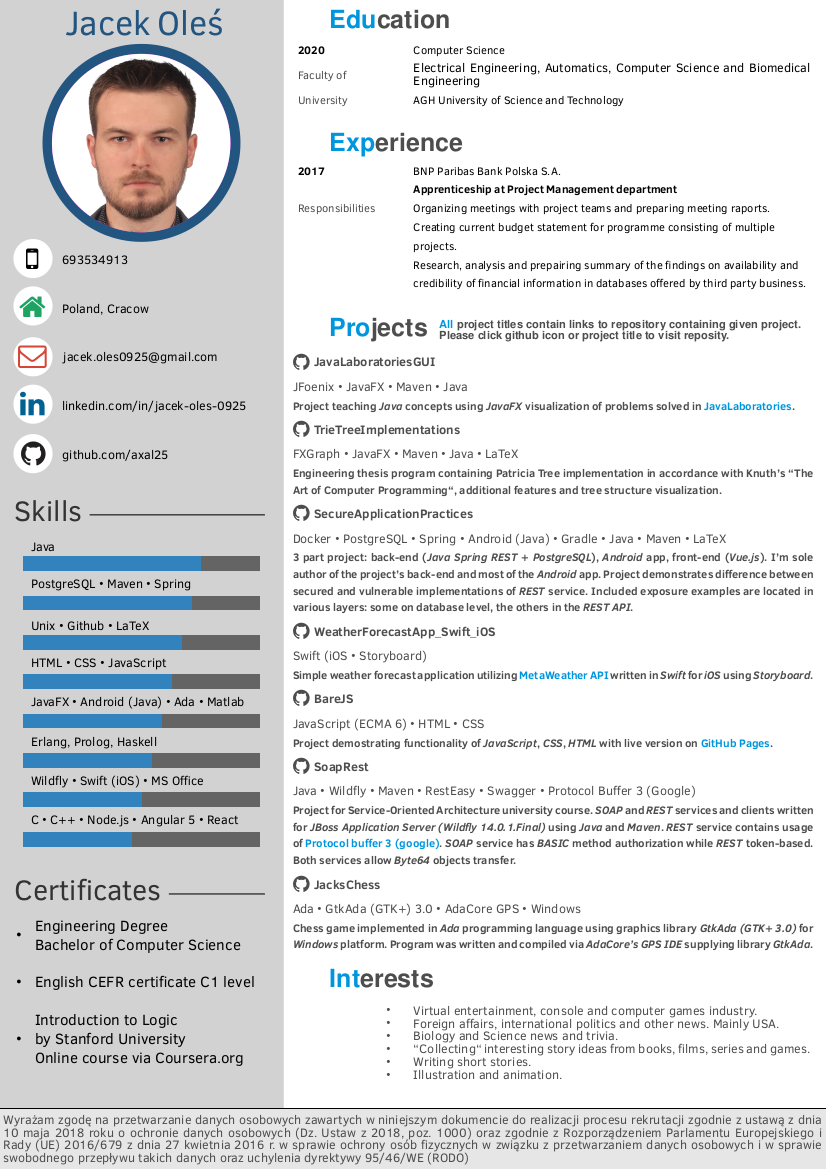
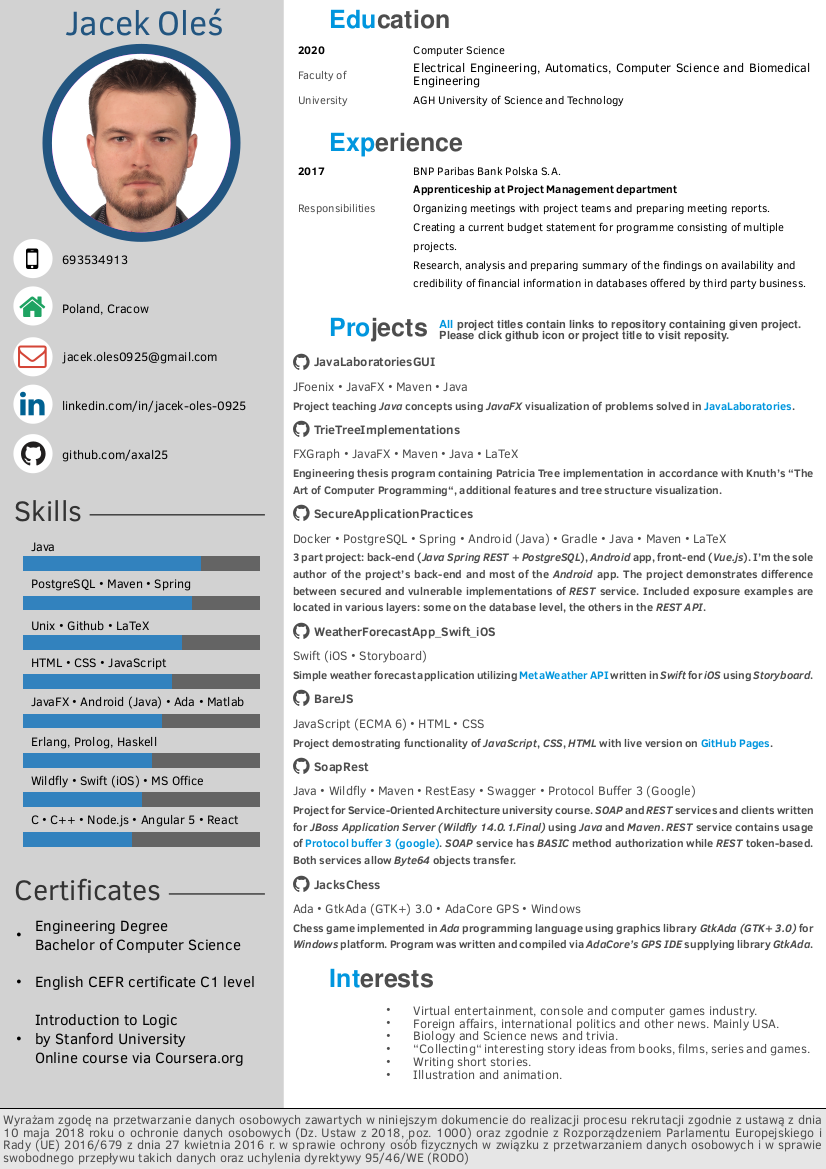
corrected grammar of CV_ENG

Changed region(s): [[0.3632, 0.4619, 0.9685, 0.5235], [0.5751, 0.1848, 0.9685, 0.2464]]

diff --git a/JacekOlesCV_ENG.tex b/JacekOlesCV_ENG.tex
@@ -563,13 +563,13 @@
 			\\%
 			{\color{colorSectionGray} \changeFontSize{8px} Responsibilities}%
 			&%
-			{ \changeFontSize{8px} Organizing meetings with project teams and preparing meeting raports. }%
+			{ \changeFontSize{8px}Organizing meetings with project teams and preparing meeting reports. }%
 			\\%
 			&%
-			{\changeFontSize{8px} Creating current budget statement for programme consisting of multiple \newline projects.}%
+			{\changeFontSize{8px} Creating a current budget statement for programme consisting of multiple\newline projects.}%
 			\\
 			&%
-			{\changeFontSize{8px} Research, analysis and prepairing summary of the findings on availability and \newline credibility of financial information in databases offered by third party business. }%
+			{\changeFontSize{8px} Research, analysis and preparing summary of the findings on availability and \newline credibility of financial information in databases offered by third party business. }%
 		\end{tabularx}
 	\end{textblock}
 }
@@ -640,7 +640,7 @@
 		    \projectEntryTech{Engineering thesis program containing Patricia Tree implementation in accordance with Knuth's ``The Art of Computer Programming``, additional features and tree structure visualization.}\\%
 		    \projectEntryName{https://github.com/axal25/SecureApplicationPractices}{SecureApplicationPractices}\\%
 		    \projectEntryTechStack{{Docker}, {PostgreSQL}, {Spring}, {Android (Java)}, {Gradle}, {Java}, {Maven}, {LaTeX}}\\%
-		    \projectEntryTech{3 part project: back-end (\emph{Java Spring REST} + \emph{PostgreSQL}), \emph{Android} app, front-end (\emph{Vue.js}). I'm sole author of the project's back-end and most of the \emph{Android} app. Project demonstrates difference between secured and vulnerable implementations of \emph{REST} service. Included exposure examples are located in various layers: some on database level, the others in the \emph{REST API}.}\\%
+		    \projectEntryTech{3 part project: back-end (\emph{Java Spring REST} + \emph{PostgreSQL}), \emph{Android} app, front-end (\emph{Vue.js}). I’m the sole author of the project’s back-end and most of the \emph{Android} app. The project demonstrates difference between secured and vulnerable implementations of \emph{REST} service. Included exposure examples are located in various layers: some on the database level, the others in the \emph{REST API}.}\\%
 		    \projectEntryName{https://github.com/axal25/WeatherForecastApp_Swift_iOS}{WeatherForecastApp\textunderscore Swift\textunderscore iOS}\\%
 		    \projectEntryTechStack{{Swift (iOS \textbullet{} Storyboard)}}\\%
 		    \projectEntryTech{Simple weather forecast application utilizing \coloredHref{https://www.metaweather.com/api/}{MetaWeather API} written in \emph{Swift} for \emph{iOS} using \emph{Storyboard}.}\\%
